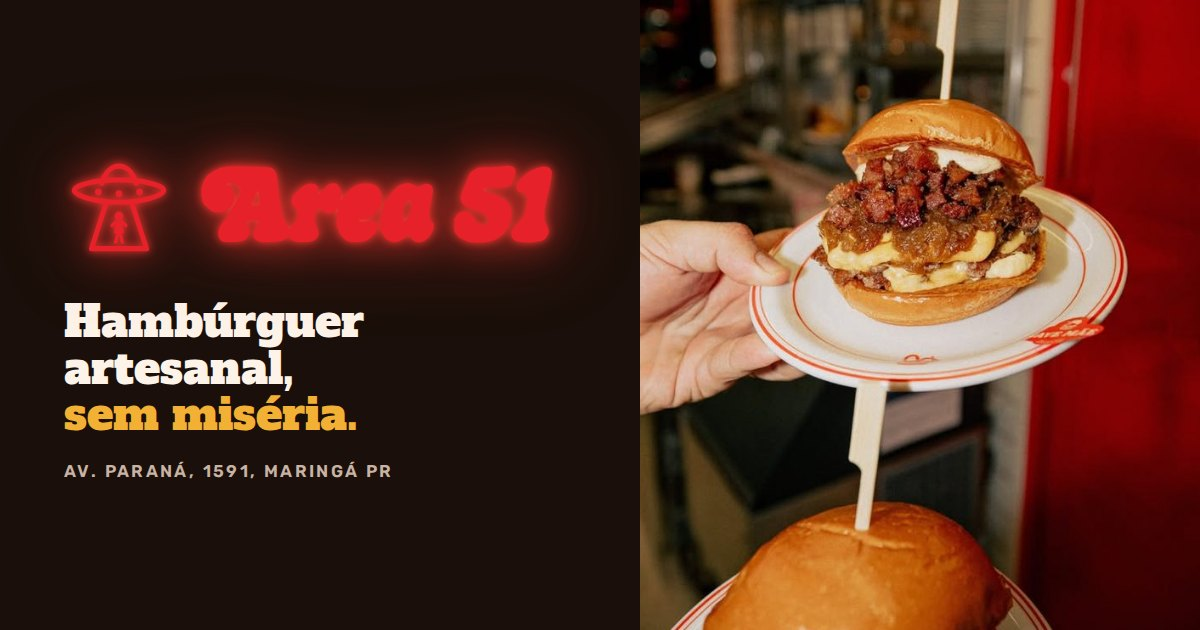
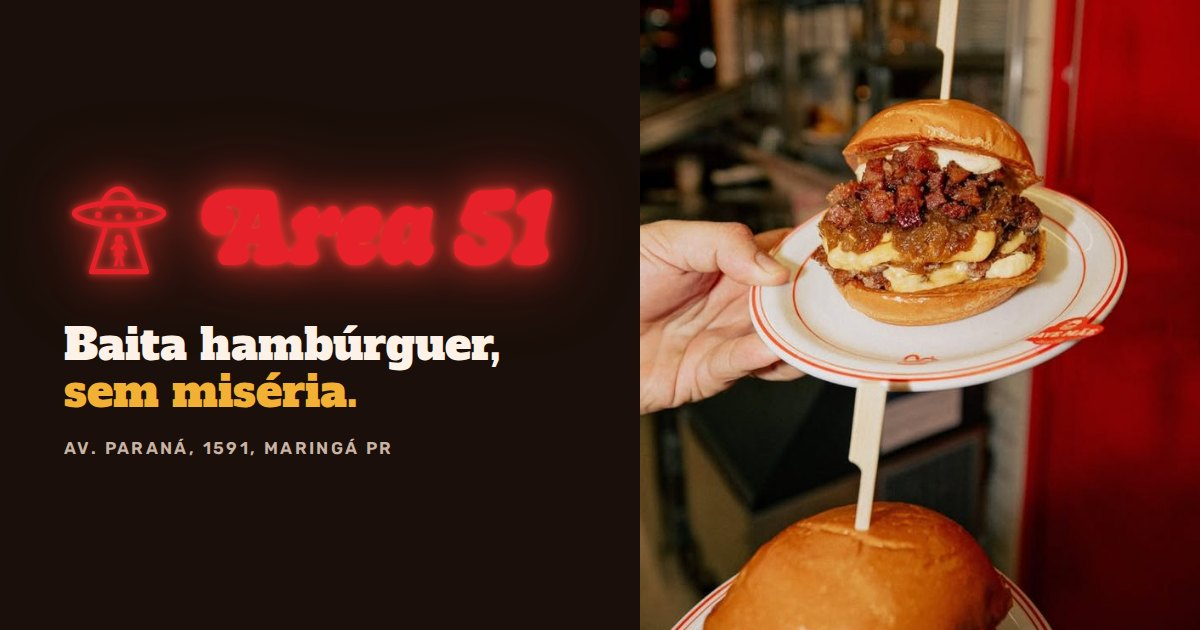
Fachada é imagem gerada por IA: sai tudo o que vinha dela
Hero vira "Baita hambúrguer, sem miséria" (da avaliação), letreiro
corrido com o que a casa serve, cardápio sem shakes, chamada final
e textos sem citar o letreiro; README registra a origem da imagem.

Changed region(s): [[0.0308, 0.2111, 0.4933, 0.754]]

diff --git a/index.html b/index.html
@@ -3,15 +3,15 @@
 <head>
   <meta charset="utf-8">
   <meta name="viewport" content="width=device-width, initial-scale=1">
-  <title>Area 51 Burger | Hambúrgueres artesanais em Maringá PR, na Av. Paraná</title>
-  <meta name="description" content="Area 51 Burger: hambúrgueres artesanais, batata e shakes na Av. Paraná, 1591, Zona 07, Maringá PR. Nota 4,4 no Google. Peça pelo app oficial ou chame no WhatsApp (44) 99883-6610.">
+  <title>Area 51 Burger | Hamburgueria em Maringá PR, na Av. Paraná</title>
+  <meta name="description" content="Area 51 Burger: hambúrguer sem miséria, batata e frango empanado na Av. Paraná, 1591, Zona 07, Maringá PR. Nota 4,4 no Google. Peça pelo app oficial ou chame no WhatsApp (44) 99883-6610.">
   <meta name="theme-color" content="#1a0f0a">
 
   <meta property="og:type" content="restaurant">
   <meta property="og:locale" content="pt_BR">
   <meta property="og:site_name" content="Area 51 Burger">
-  <meta property="og:title" content="Area 51 Burger | Hambúrguer artesanal, sem miséria">
-  <meta property="og:description" content="Burgers, shakes e good vibes na Av. Paraná, 1591, Maringá PR. Nota 4,4 no Google. Peça pelo app oficial.">
+  <meta property="og:title" content="Area 51 Burger | Baita hambúrguer, sem miséria">
+  <meta property="og:description" content="Hambúrguer, batata e frango empanado na Av. Paraná, 1591, Maringá PR. Nota 4,4 no Google. Peça pelo app oficial.">
   <meta property="og:image" content="assets/img/compartilhamento.jpg">
   <meta property="og:image:width" content="1200">
   <meta property="og:image:height" content="630">
@@ -32,8 +32,8 @@
     "@type": "Restaurant",
     "name": "Area 51 Burger",
     "alternateName": "Area 51 Burguer",
-    "servesCuisine": "Hambúrguer artesanal",
-    "description": "Hamburgueria em Maringá PR: hambúrgueres artesanais, batata, frango e shakes, para comer no local ou pedir pelo app oficial.",
+    "servesCuisine": "Hambúrguer",
+    "description": "Hamburgueria em Maringá PR: hambúrguer, batata e frango empanado, para comer no local ou pedir pelo app oficial.",
     "image": "assets/img/compartilhamento.jpg",
     "telephone": "+55 44 99883-6610",
     "address": {
@@ -155,9 +155,9 @@
         <p class="eyebrow">Hamburgueria na Av. Paraná, Maringá</p>
         <h1 class="hero__title" id="hero-title">
           <span class="sr-only">Area 51 Burger: </span>
-          <span class="hero__claim">Hambúrguer artesanal, <em>sem miséria.</em></span>
+          <span class="hero__claim">Baita hambúrguer, <em>sem miséria.</em></span>
         </h1>
-        <p class="hero__lead">Burgers, shakes e good vibes, como diz o letreiro. Para comer na esquina da Av. Paraná ou pedir em casa pelo app oficial.</p>
+        <p class="hero__lead">Hambúrguer montado na chapa na hora, batata e frango empanado para acompanhar. Para comer na Av. Paraná, 1591, ou pedir em casa pelo app oficial.</p>
         <div class="hero__actions">
           <a class="btn btn--red btn--big" href="https://pratodigital.com.br/area51/" target="_blank" rel="noopener">
             <svg class="icon" aria-hidden="true"><use href="#i-bag"/></svg>
@@ -176,11 +176,11 @@
       </div>
     </section>
 
-    <!-- Letreiro corrido, como o friso da fachada -->
+    <!-- Letreiro corrido, com o que a casa serve e onde fica -->
     <div class="ticker" aria-hidden="true">
       <div class="ticker__track">
-        <span>Burgers</span><i></i><span>Shakes</span><i></i><span>Good vibes</span><i></i><span>Hambúrgueres artesanais</span><i></i><span>Av. Paraná, 1591</span><i></i>
-        <span>Burgers</span><i></i><span>Shakes</span><i></i><span>Good vibes</span><i></i><span>Hambúrgueres artesanais</span><i></i><span>Av. Paraná, 1591</span><i></i>
+        <span>Hambúrguer</span><i></i><span>Batata</span><i></i><span>Frango empanado</span><i></i><span>Nota 4,4 no Google</span><i></i><span>Av. Paraná, 1591</span><i></i>
+        <span>Hambúrguer</span><i></i><span>Batata</span><i></i><span>Frango empanado</span><i></i><span>Nota 4,4 no Google</span><i></i><span>Av. Paraná, 1591</span><i></i>
       </div>
     </div>
 
@@ -198,11 +198,11 @@
         <div class="chapa__content">
           <p class="eyebrow" data-reveal>Na chapa</p>
           <h2 class="section__title" id="chapa-title" data-reveal>Pão, carne, queijo <em>e nada de economia.</em></h2>
-          <p class="section__lead" data-reveal>Hambúrguer artesanal montado na chapa na hora do pedido. Batata de acompanhar, frango empanado e shake para fechar. É o que a cozinha faz, e é o que as avaliações falam.</p>
+          <p class="section__lead" data-reveal>Hambúrguer montado na chapa na hora do pedido, batata de acompanhar e frango empanado para dividir. É o que aparece nas fotos da casa, e é o que as avaliações falam.</p>
 
           <ul class="menu-lines" data-reveal>
             <li class="menu-line">
-              <span class="menu-line__name">Hambúrgueres artesanais</span>
+              <span class="menu-line__name">Hambúrgueres</span>
               <span class="menu-line__dots" aria-hidden="true"></span>
               <span class="menu-line__note">a casa</span>
             </li>
@@ -217,9 +217,9 @@
               <span class="menu-line__note">para dividir</span>
             </li>
             <li class="menu-line">
-              <span class="menu-line__name">Shakes</span>
+              <span class="menu-line__name">Para levar</span>
               <span class="menu-line__dots" aria-hidden="true"></span>
-              <span class="menu-line__note">para fechar</span>
+              <span class="menu-line__note">na caixa da casa</span>
             </li>
           </ul>
           <p class="chapa__note" data-reveal>Cardápio completo, com preços e combos, no app oficial.</p>
@@ -327,8 +327,8 @@
           </li>
           <li class="way">
             <span class="way__num">03</span>
-            <h3 class="way__title">Na esquina</h3>
-            <p class="way__text">Av. Paraná, 1591, Zona 07. Letreiro vermelho, impossível errar.</p>
+            <h3 class="way__title">Na Av. Paraná</h3>
+            <p class="way__text">Av. Paraná, 1591, Zona 07, perto da Av. Colombo. Para comer na hora.</p>
             <a class="btn btn--outline-dark" href="https://www.google.com/maps/search/?api=1&amp;query=Area+51+Burguer%2C+Av.+Paran%C3%A1%2C+1591%2C+Maring%C3%A1+PR" target="_blank" rel="noopener">
               <svg class="icon" aria-hidden="true"><use href="#i-pin"/></svg>
               Como chegar
@@ -404,7 +404,7 @@
           <svg class="closing__ufo" aria-hidden="true"><use href="#nave"/></svg>
           <svg class="closing__mark" aria-hidden="true"><use href="#letreiro"/></svg>
         </div>
-        <h2 class="closing__title" id="closing-title" data-reveal>Bateu a fome? <em>O letreiro está aceso.</em></h2>
+        <h2 class="closing__title" id="closing-title" data-reveal>Bateu a fome? <em>A chapa está ligada.</em></h2>
         <div class="closing__actions" data-reveal>
           <a class="btn btn--red btn--big" href="https://pratodigital.com.br/area51/" target="_blank" rel="noopener">
             <svg class="icon" aria-hidden="true"><use href="#i-bag"/></svg>
@@ -430,7 +430,7 @@
           <svg class="footer__ufo" aria-hidden="true"><use href="#nave"/></svg>
           <svg class="footer__mark" aria-hidden="true"><use href="#letreiro"/></svg>
         </div>
-        <p>Hambúrgueres artesanais, batata, frango e shakes. Burgers, shakes, good vibes.</p>
+        <p>Hambúrguer, batata e frango empanado. Para comer na Av. Paraná ou pedir pelo app oficial.</p>
       </div>
 
       <div class="footer__col">

diff --git a/tools/render-compartilhamento.js b/tools/render-compartilhamento.js
@@ -43,7 +43,7 @@ const pages = {
     html: `<div style="width:1200px;height:630px;display:grid;grid-template-columns:640px 560px;background:#1a0f0a;color:#fdf3e9;font-family:Rubik,sans-serif;overflow:hidden">
       <div style="display:flex;flex-direction:column;justify-content:center;padding:0 64px">
         <div style="display:flex;align-items:center;gap:22px;color:#e62129;filter:drop-shadow(0 0 4px #f63831) drop-shadow(0 0 18px rgba(246,56,49,.65)) drop-shadow(0 0 40px rgba(246,56,49,.35))">${ship(110)}${mark(360)}</div>
-        <div style="margin-top:40px;font-family:'Alfa Slab One',serif;font-size:44px;line-height:1.06">Hambúrguer artesanal,<br><span style="color:#f2b134">sem miséria.</span></div>
+        <div style="margin-top:40px;font-family:'Alfa Slab One',serif;font-size:44px;line-height:1.06">Baita hambúrguer,<br><span style="color:#f2b134">sem miséria.</span></div>
         <div style="margin-top:22px;font-size:17px;font-weight:600;letter-spacing:0.14em;text-transform:uppercase;color:#c9b3a4">Av. Paraná, 1591, Maringá PR</div>
       </div>
       <img src="file://${path.join(out, photo)}" style="width:560px;height:630px;object-fit:cover;object-position:50% 40%;display:block" alt="">

diff --git a/README.md b/README.md
@@ -25,7 +25,7 @@ estão prontas em `assets/img`.
 ```
 materiais-de-origem/
   logo/    area51 logo.jpg (150 x 150 px, letreiro vermelho sobre creme quadriculado)
-  fotos/   fachada.png (1652 x 952, a esquina à noite) e seis capturas do Instagram
+  fotos/   fachada.png (1652 x 952, imagem gerada por IA, veja abaixo) e seis capturas do Instagram
 ```
 
 Não foram recebidas fotos de perfil das avaliações; a página mostra só os
@@ -51,6 +51,16 @@ camionetas" e "Público-alvo: pessoas que possuem automóveis", textos que
 sobraram do projeto anterior desta série (Geral Peças). Não foram
 considerados; o conteúdo segue o segmento, as fotos, o letreiro da fachada e
 as avaliações.
+
+**A imagem da fachada é gerada por IA**, não é uma foto do lugar: o cliente
+avisou durante o projeto. Por isso nada do que está escrito nela (o friso
+"Burgers, Shakes, Good vibes", "Hambúrgueres artesanais", "Good food good
+people", o disco voador e o letreiro de neon) é tratado como fato. Uma
+primeira versão da página citava essas frases; todas foram trocadas por
+conteúdo apoiado nas avaliações, nas fotos reais da comida e no endereço. A
+imagem continua no hero como ilustração da marca, por decisão do cliente.
+Se a casa tiver uma foto real da fachada, ela deve substituir a imagem
+(mesmo nome de arquivo, e rodar `python3 tools/optimize-images.py`).
 
 O link de pedidos veio embrulhado pelo redirecionador do Instagram
 (`l.instagram.com/?u=...`), com parâmetros de rastreamento. A página usa o
@@ -78,21 +88,23 @@ Google e aparece no rodapé e no JSON-LD.
 Na página: vírgulas e pontos finais acrescentados, "quantidade/ qualidade"
 virou "quantidade e a qualidade", "hamburger" virou "hambúrguer",
 "viciadaaaaa!!" virou "viciada!" e o "kkkkkkk" saiu. O sentido não mudou.
-"Sem miséria", da avaliação de Juliety, virou a frase do hero.
+"Baita hambúrguer, sem miséria", da avaliação de Juliety, virou a frase do
+hero.
 
 ## Estratégia
 
 | Definição | Decisão |
 | --- | --- |
-| Proposta de valor | Hambúrguer artesanal feito na chapa, em porção generosa ("sem miséria"), na esquina da Av. Paraná ou em casa pelo app |
-| Principal objeção | "Hamburgueria artesanal é bonita e pequena": a página responde com as avaliações sobre quantidade e com as fotos |
+| Proposta de valor | Hambúrguer feito na chapa, em porção generosa ("sem miséria"), na Av. Paraná ou em casa pelo app |
+| Principal objeção | "Hamburgueria bonita é porção pequena": a página responde com as avaliações sobre quantidade e com as fotos |
 | Conversão prioritária | Pedir pelo app oficial (cardápio, combos, entrega e retirada) |
 | Ação secundária | WhatsApp, para dúvidas e pedidos combinados |
-| Ação de apoio | Ir até a esquina; seguir o Instagram |
+| Ação de apoio | Ir até a Av. Paraná; seguir o Instagram |
 
 ## Direção visual
 
-Bar americano com letreiro de neon, como a fachada: fundo escuro quente
+Bar americano com letreiro de neon, no clima da imagem da fachada: fundo
+escuro quente
 (marrom quase preto), o vermelho do logo em neon, creme quadriculado do fundo
 do logo nas seções claras, madeira do bar na galeria e um toque de amarelo
 mostarda nas estrelas e nos destaques sobre o escuro. Tipografia Alfa Slab
@@ -104,11 +116,11 @@ One (títulos, com peso de letreiro de lanchonete) e Rubik (textos).
   painel escuro à esquerda e a foto inteira à direita, sem nada por cima do
   letreiro de neon (uma primeira versão punha o texto sobre a foto e cobria o
   letreiro; o cliente pediu para reorganizar). No celular, a foto fica atrás
-  do texto, escurecida. O letreiro de neon da foto é o logo do hero; o título
-  é a frase "Hambúrguer artesanal, sem miséria."
-- **Letreiro corrido** abaixo do hero, com as palavras do friso da fachada
-  (Burgers, Shakes, Good vibes, Hambúrgueres artesanais), em movimento
-  contínuo.
+  do texto, escurecida. O título é a frase "Baita hambúrguer, sem miséria.",
+  da avaliação de Juliety.
+- **Letreiro corrido** abaixo do hero, com o que a casa serve e onde fica
+  (Hambúrguer, Batata, Frango empanado, Nota 4,4 no Google, Av. Paraná,
+  1591), em movimento contínuo.
 - **Grade do logo** como fundo das seções claras.
 - **Cardápio com pontilhado**, como em um menu de balcão, com as observações
   tiradas das avaliações.
@@ -117,10 +129,10 @@ One (títulos, com peso de letreiro de lanchonete) e Rubik (textos).
 - **Avaliações em cupons de caixa**, com a borda serrilhada, sobre vermelho
   escuro; a nota 4,4 sobe de 0 quando aparece na tela.
 - **Letreiro vetorizado em neon** no cabeçalho, na chamada final e no rodapé,
-  sempre com o **disco voador** do neon da fachada ao lado, desenhado por
-  código (`tools/logo/nave.svg`: cúpula, disco com três luzes, feixe e a
-  silhueta sendo abduzida); no fecho os dois "acendem" piscando quando entram
-  na tela. O disco também é o favicon.
+  sempre com um **disco voador** ao lado, desenhado por código
+  (`tools/logo/nave.svg`: cúpula, disco com três luzes, feixe e a silhueta
+  sendo abduzida), pelo nome da casa; no fecho os dois "acendem" piscando
+  quando entram na tela. O disco também é o favicon.
 - Foto da chapa inclina com o mouse; os cupons entram um depois do outro;
   cabeçalho fica sólido ao rolar.
 
@@ -136,14 +148,14 @@ tábuas.
 | Ordem | Seção | Âncora | Conteúdo |
 | --- | --- | --- | --- |
 | 1 | Cabeçalho | | Disco voador e letreiro em neon, navegação e "Pedir agora". Fixo, translúcido sobre o hero e sólido ao rolar |
-| 2 | Hero | `#inicio` | Painel de texto e fachada à noite lado a lado (no celular, foto atrás do texto): "Hambúrguer artesanal, sem miséria.", pedir e ver o que tem, nota 4,4 em 579 avaliações |
-| 3 | Letreiro corrido | | Burgers, Shakes, Good vibes, Hambúrgueres artesanais, Av. Paraná, 1591 |
-| 4 | Na chapa | `#na-chapa` | Foto da chapa com adesivo, cardápio em quatro linhas e link para o cardápio completo |
+| 2 | Hero | `#inicio` | Painel de texto e imagem da fachada lado a lado (no celular, imagem atrás do texto): "Baita hambúrguer, sem miséria.", pedir e ver o que tem, nota 4,4 em 579 avaliações |
+| 3 | Letreiro corrido | | Hambúrguer, Batata, Frango empanado, Nota 4,4 no Google, Av. Paraná, 1591 |
+| 4 | Na chapa | `#na-chapa` | Foto da chapa com adesivo, cardápio em quatro linhas (hambúrgueres, batata, frango, para levar) e link para o cardápio completo |
 | 5 | Fotos | `#fotos` | Seis polaroids em trilho horizontal sobre madeira, link para o Instagram |
 | 6 | Avaliações | `#avaliacoes` | Nota 4,4 com contador, estrelas e três cupons |
 | 7 | Como pedir | `#como-pedir` | App oficial (destaque), WhatsApp e endereço |
 | 8 | Onde fica | `#onde-fica` | Endereço, WhatsApp, Instagram, app e mapa |
-| 9 | Chamada final | | Letreiro neon piscando, "Bateu a fome? O letreiro está aceso.", pedir e WhatsApp |
+| 9 | Chamada final | | Letreiro neon piscando, "Bateu a fome? A chapa está ligada.", pedir e WhatsApp |
 | 10 | Rodapé | | Endereço com CEP, contato, pedidos |
 
 Componente de apoio: botão flutuante de WhatsApp, no canto inferior direito,
@@ -168,7 +180,7 @@ materiais-de-origem/             arquivos do cliente (só na pasta local, fora d
 
 | Arquivo | Conteúdo | Tamanho | Onde aparece |
 | --- | --- | --- | --- |
-| `fachada.png` | A esquina à noite, com o neon do disco voador e o letreiro | 1652 x 952 | hero (reduzida a 1600 px) |
+| `fachada.png` | Imagem gerada por IA da fachada à noite, com neon | 1652 x 952 | hero (reduzida a 1600 px), como ilustração |
 | `Screenshot ... 155855.png` | Hambúrguer alto com bacon, no prato de borda vermelha | 659 x 884 | galeria e imagem de compartilhamento |
 | `Screenshot ... 160119.png` | Batata com carne desfiada | 664 x 886 | galeria |
 | `Screenshot ... 155905.png` | Mesa com três hambúrgueres e celular | 664 x 887 | galeria |
@@ -185,14 +197,14 @@ O logo veio em JPG de 150 x 150 px: letreiro "Area 51" vermelho sobre creme
 quadriculado. É pequeno demais para o cabeçalho e para os ícones, então o
 letreiro foi **vetorizado** a partir do arquivo (ampliado 8 vezes, suavizado
 e traçado com potrace) e está em `tools/logo/letreiro.svg`. O desenho das
-letras é o do logo, e é o mesmo do letreiro de neon da fachada. Por ser vetor
+letras é o do logo. Por ser vetor
 com `fill="currentColor"`, ele toma a cor de onde está e recebe o brilho de
 neon por filtro CSS. O creme quadriculado do fundo do logo virou a grade das
 seções claras.
 
 O disco voador (`tools/logo/nave.svg`, símbolo `#nave` no `index.html`) foi
-desenhado por código a partir do neon da fachada, em traço, para combinar com
-o letreiro. Os ícones do site usam só ele, porque o letreiro inteiro fica
+desenhado por código, em traço, pelo nome da casa; não é um letreiro que
+exista. Os ícones do site usam só ele, porque o letreiro inteiro fica
 ilegível em 32 px.
 
 Se o cliente enviar o logo em vetor, basta trocar o `<path>` do símbolo
@@ -255,13 +267,14 @@ Tipografia: Alfa Slab One (títulos, legendas e rótulos de cupom) e Rubik
 ## Decisões de conteúdo
 
 - Só foram usados dados fornecidos: nome, endereço, WhatsApp, Instagram, link
-  de pedidos, nota, fotos, avaliações e o que está escrito na fachada
-  ("Hambúrgueres artesanais", "Burgers, Shakes, Good vibes"). Não há preços,
-  horário, prazo de entrega, lista de combos nem "o melhor de Maringá" como
-  afirmação da casa (a frase aparece só dentro da avaliação de Vitória).
-- As quatro linhas do cardápio (hambúrgueres, batata, frango, shakes) vêm das
-  fotos e da fachada; as observações, das avaliações. Preços e o cardápio
+  de pedidos, nota, fotos reais e avaliações. Nada vem da imagem da fachada
+  (gerada por IA). Não há "artesanal", shakes, preços, horário, prazo de
+  entrega, lista de combos nem "o melhor de Maringá" como afirmação da casa
+  (a frase aparece só dentro da avaliação de Vitória).
+- As quatro linhas do cardápio (hambúrgueres, batata, frango empanado, para
+  levar) vêm das fotos; as observações, das avaliações. Preços e o cardápio
   completo ficam no app, e a página diz isso.
+- "Perto da Av. Colombo" vem do mapa do Google.
 - "Montado na chapa na hora do pedido" descreve a foto da chapa.
 - "Pedidos para entrega são feitos pelos aplicativos oficiais" vem do
   briefing. A página não nomeia os aplicativos, porque eles não foram
@@ -313,6 +326,7 @@ Digital está atualizado.
 | Hero reorganizado em dois painéis no desktop, para o texto não cobrir o letreiro da fachada | `styles.css` |
 | Disco voador em neon, desenhado por código, antes do letreiro no cabeçalho, no fecho e no rodapé; vira o favicon | `index.html`, `styles.css`, `tools/logo/nave.svg`, `tools/render-compartilhamento.js`, `assets/img` |
 | No cabeçalho, só a nave brilha; o letreiro fica no vermelho chapado, a pedido do cliente | `index.html`, `styles.css` |
+| Cliente avisou que a fachada é gerada por IA: todas as frases tiradas dela saíram (shakes, good vibes, artesanal, "como diz o letreiro", esquina) | `index.html`, `tools/render-compartilhamento.js`, `assets/img` |
 
 ## Créditos e licenças
 
@@ -333,7 +347,8 @@ Digital está atualizado.
 - Horário de funcionamento e formas de pagamento.
 - Cardápio com nomes dos lanches e preços, se quiserem na página; hoje ela
   manda para o app.
-- Fotos de shakes e do salão por dentro.
+- **Foto real da fachada**, para substituir a imagem gerada por IA.
+- Fotos do salão por dentro.
 - Telefone fixo, se existir.
 - Fotos de perfil das avaliações, se quiserem.
 - Domínio de publicação, para completar `og:image` com URL absoluta e adicionar
